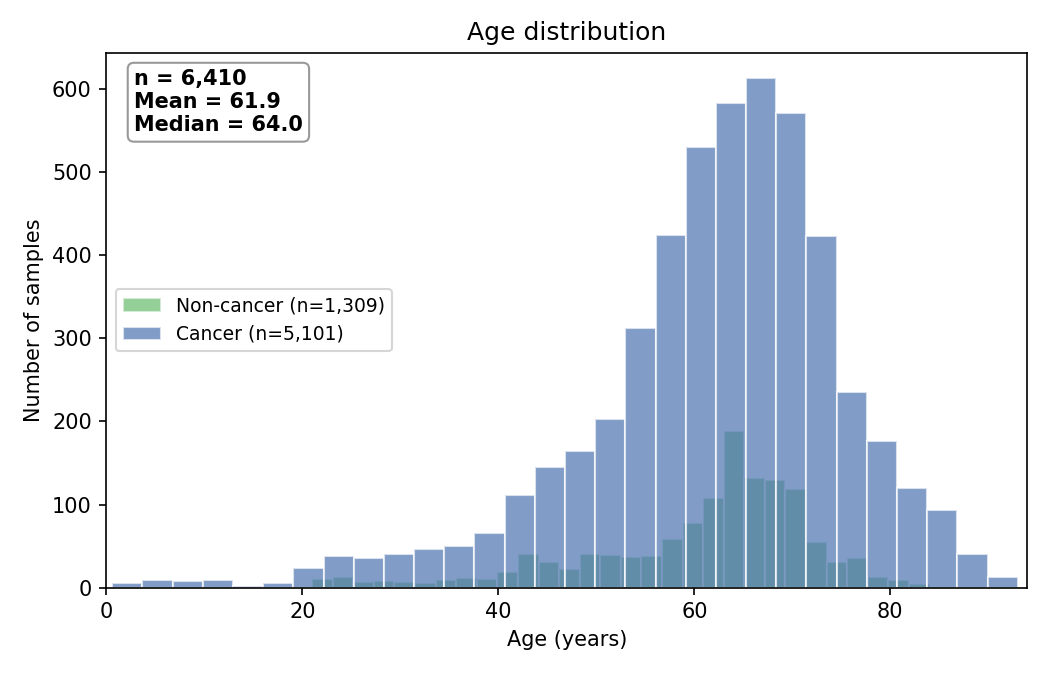
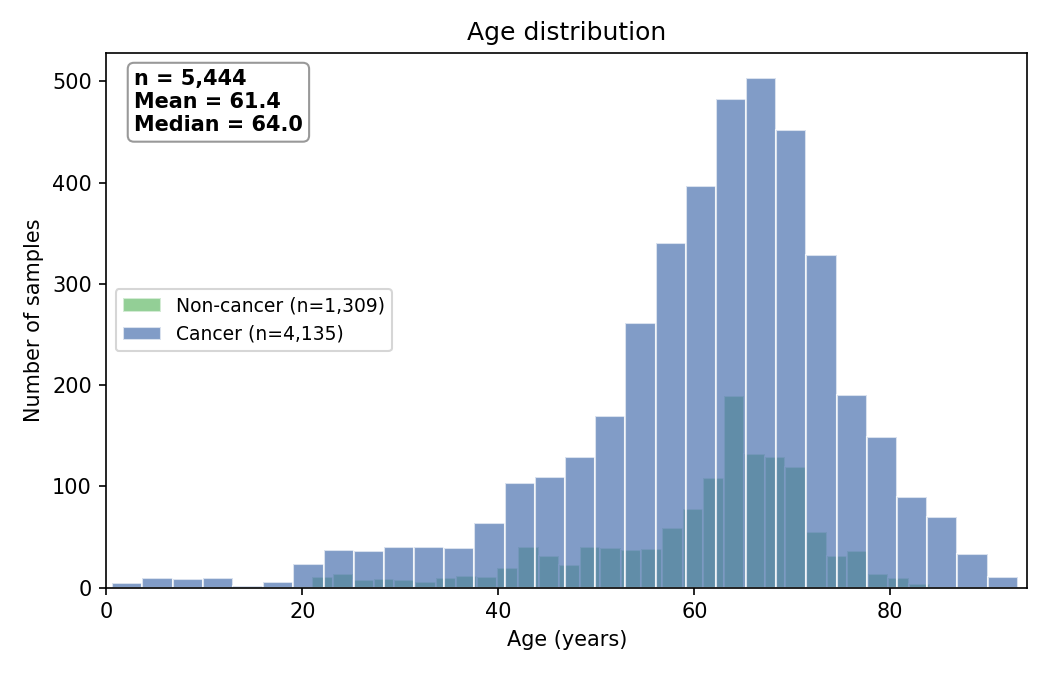
Deduplicate subjects for age/BMI plots and summary table

diff --git a/index.html b/index.html
@@ -457,7 +457,7 @@
 
 
 <h1 id="curatedmetagenomicdata-cancer-datasets-overview">curatedMetagenomicData -- Cancer Datasets Overview</h1>
-<p><em>Last updated: 2026-08-06 13:48 UTC</em></p>
+<p><em>Last updated: 2026-08-06 13:52 UTC</em></p>
 <h2 id="summary">Summary</h2>
 <table>
 <thead>
@@ -508,11 +508,11 @@
 <td>4453 / 8069 (55.2%) — available in 24 / 56 studies</td>
 </tr>
 <tr>
-<td>Samples with age information</td>
-<td>6410</td>
+<td>Subjects with age information</td>
+<td>5444</td>
 </tr>
 <tr>
-<td>Samples with BMI information</td>
+<td>Subjects with BMI information</td>
 <td>1827 across 14 studies</td>
 </tr>
 </tbody>
